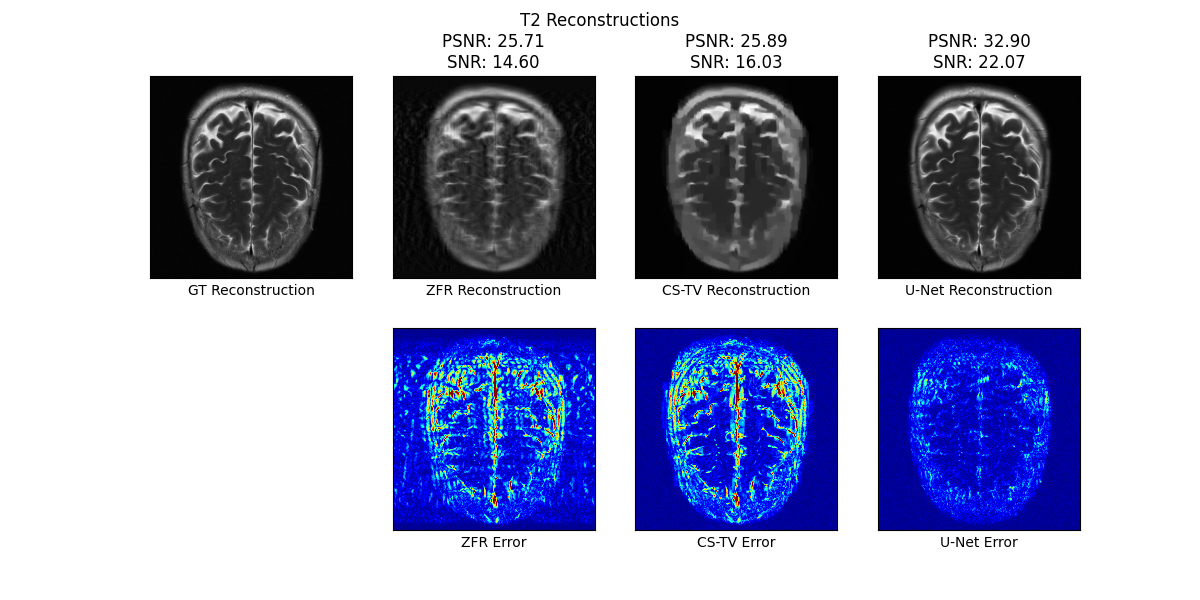
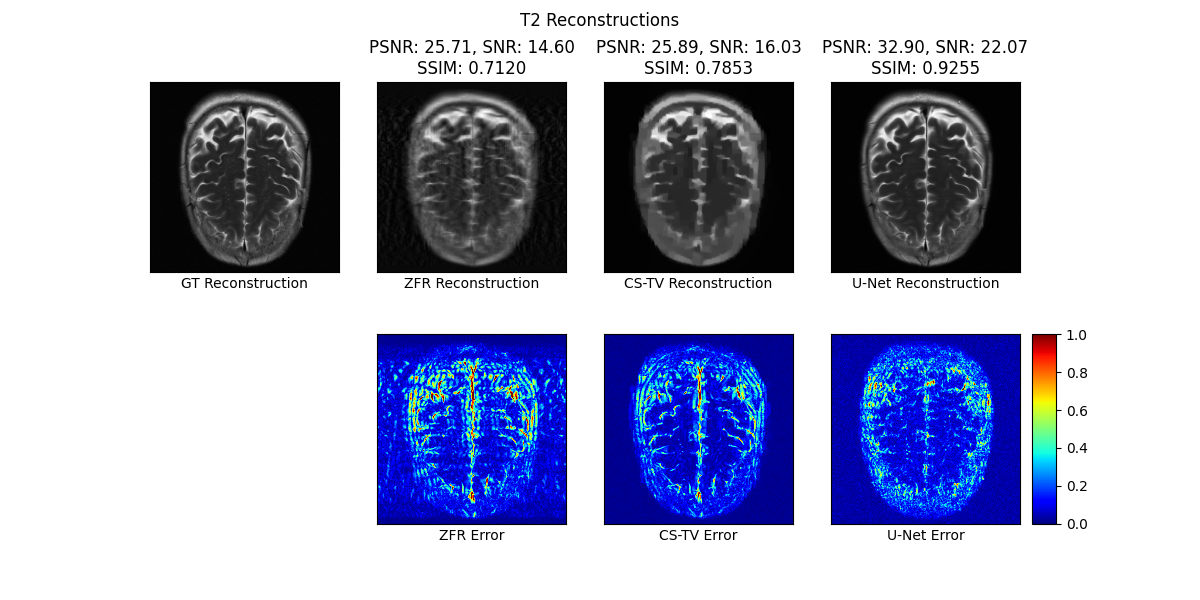
Updated plots

diff --git a/generate_plots.py b/generate_plots.py
@@ -18,7 +18,7 @@ def get_psnr(gt, pred):
 
 def get_snr(target, pred):
     noise = np.abs(target - pred)
-    return 10*np.log10(np.mean(target)/np.mean(noise))
+    return 20*np.log10(np.mean(target)/np.mean(noise))
 
 def get_ssim(target, pred):
     maxval = target.max()
@@ -26,24 +26,26 @@ def get_ssim(target, pred):
         target, pred, data_range=maxval
     )
 
-def generate_image(fig, max, target, image, method, image_ind):
+def generate_image(fig, x_max, target, image, method, image_ind):
     # rows and cols are both previously defined ints
     ax = fig.add_subplot(rows, cols, image_ind)
     if method != 'GT':
         psnr = get_psnr(target, image)
         snr = get_snr(target, image)
         ssim = get_ssim(target, image)
-        ax.set_title(f'PSNR: {psnr:.2f}\nSNR: {snr:.2f}\nSSIM: {ssim:.4f}')
-    ax.imshow(np.abs(image), cmap='gray', extent=[0, max, 0, max])
+        ax.set_title(f'PSNR: {psnr:.2f}, SNR: {snr:.2f}\nSSIM: {ssim:.4f}')
+    ax.imshow(np.abs(image), cmap='gray')
     ax.set_xticks([])
     ax.set_yticks([])
     plt.xlabel(f'{method} Reconstruction')
 
-def generate_error_map(fig, max, target, recon, method, image_ind, k=5):
+def generate_error_map(fig, x_max, target, recon, method, image_ind, k=2):
     # Assume rows and cols are available globally
     # rows and cols are both previously defined ints
     ax = fig.add_subplot(rows, cols, image_ind)
-    im = ax.imshow(k * np.abs(target - recon), cmap='jet', vmin=0, vmax=max, extent=[0, max, 0, max])
+    error = np.abs(target-recon)
+    n_e = error / error.max()
+    im = ax.imshow(k * n_e, cmap='jet', vmin=0, vmax=1)
     ax.set_xticks([])
     ax.set_yticks([])
     plt.xlabel(f'{method} Error')
@@ -88,16 +90,16 @@ for fname in tqdm(list(data_dir.glob("*.h5"))):
         generate_image(fig, gt_max, target, zfr, 'ZFR', 2)
         generate_image(fig, gt_max, target, recons, 'CS-TV', 3)
         generate_image(fig, gt_max, target, unet_im, 'U-Net', 4)
-        generate_error_map(fig, gt_max, target, zfr, 'ZFR', 6)
+        im1, ax1 = generate_error_map(fig, gt_max, target, zfr, 'ZFR', 6)
         generate_error_map(fig, gt_max, target, recons, 'CS-TV', 7)
         im, ax = generate_error_map(fig, gt_max, target, unet_im, 'U-Net', 8)
 
         fig.subplots_adjust(right=0.85)
-        [[x10, y10], [x11, y11]] = ax[1].get_position().get_points()
+        [[x10, y10], [x11, y11]] = ax.get_position().get_points()
         pad = 0.01
         width = 0.02
         cbar_ax = fig.add_axes([x11 + pad, y10, width, y11 - y10])
-        axcb = fig.colorbar(im, cax=cbar_ax)
+        axcb = fig.colorbar(im1, cax=cbar_ax)
 
         plt.savefig(f'/home/bendel.8/Git_Repos/ComparisonStudy/plots/images/recons_{count}.png')
 
